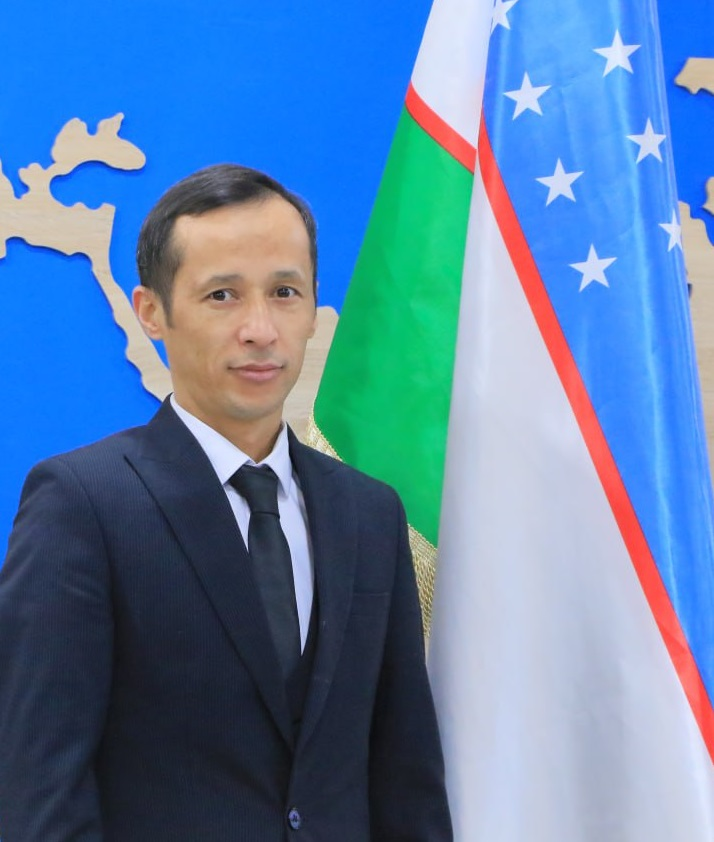
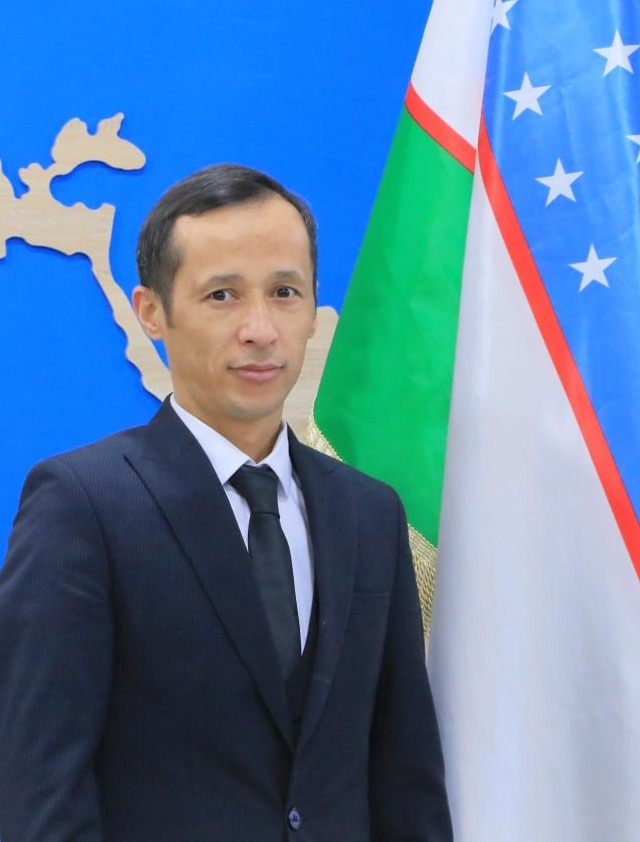
Meliqo'ziyev suratini kadr ichida markazlashtirish
Asl rasmda inson kadrning chap tomoniga siljigan va bayroq o'ng
tomonni band qilgan edi, shuning uchun 1-mualif kartasiga nisbatan
notekis/assimetrik ko'rinardi. Rasm o'ngdan biroz kesilib, inson
kadr markaziga yaqinlashtirildi, o'lchami esa Eshboltayev bilan
taqqoslanadigan darajada saqlab qolindi.

Claude-Session: https://claude.ai/code/session_01FEZMEYRP7XgMCTi3Q37Qdh

diff --git a/index.html b/index.html
@@ -71,7 +71,7 @@
 <section id="hemis" class="section"><div class="container"><div class="card" style="border-left:4px solid #1C4E9E"><div class="eyebrow">Rasmiy jarayonlar</div><h2>O‘quv topshiriqlarini bajarish hamda bilimlarni raqamli baholash — HEMIS platformasi orqali amalga oshiriladi</h2><p class="muted">ILIMZIYO ochiq elektron darslik va interaktiv o‘quv materiallari to‘plamidir. Talabalarning rasmiy topshiriq yuborishi, baholari, joriy/oraliq/yakuniy nazorat natijalari faqat universitetning HEMIS platformasida, belgilangan tartibda yuritiladi. Ushbu sayt hisob yaratmaydi va baho qo‘ymaydi.</p></div></div></section>
 <section id="muallif" class="section"><div class="container"><div class="grid grid-3">
 <div class="card author-card"><img class="author-photo" src="I.M.E.jpg" alt="I.M. Eshboltayev — muallif surati" width="270" height="278" loading="lazy"><div class="author-info"><div class="eyebrow">Muallif</div><h2>I.M. Eshboltayev</h2><p class="author-role">Fizika-matematika fanlari bo‘yicha falsafa doktori (PhD)</p><p class="muted">Qo‘qon davlat universiteti “Fizika va astronomiya” kafedrasi professori</p></div></div>
-<div class="card author-card"><img class="author-photo" src="D.J.M.jpg" alt="D.J. Meliqo‘ziyev — muallif surati" width="714" height="842" loading="lazy"><div class="author-info"><div class="eyebrow">Muallif</div><h2>D.J. Meliqo‘ziyev</h2><p class="author-role">Pedagogika fanlari bo‘yicha falsafa doktori (PhD)</p><p class="muted">Qo‘qon davlat universiteti Fizika va astronomiya kafedrasi</p></div></div>
+<div class="card author-card"><img class="author-photo" src="D.J.M.jpg" alt="D.J. Meliqo‘ziyev — muallif surati" width="640" height="842" loading="lazy"><div class="author-info"><div class="eyebrow">Muallif</div><h2>D.J. Meliqo‘ziyev</h2><p class="author-role">Pedagogika fanlari bo‘yicha falsafa doktori (PhD)</p><p class="muted">Qo‘qon davlat universiteti Fizika va astronomiya kafedrasi</p></div></div>
 <div class="card cert-card"><a href="https://im.adliya.uz/document/check/98096124-4ed9-449d-9d29-dbfa5f5e1f8d" target="_blank" rel="noopener"><img class="cert-doc" src="DGU-70647-guvohnoma.png" alt="№ DGU 70647 — «Fizika va astronomiya o‘qitishda axborot texnologiyalarini qo‘llash» dasturi uchun O‘zbekiston Respublikasi Adliya vazirligining rasmiy davlat guvohnomasi" width="526" height="701" loading="lazy"></a></div>
 </div></div></section>
 </main><footer class="footer"><div class="container">O‘zbekiston Respublikasining Dasturiy mahsulotlar davlat reyestrida 18.11.2026 y. ro‘yxatdan o‘tkazildi № DGU 70647</div><div class="container">Fizika va astronomiya o‘qitishda axborot texnologiyalari — Raqamli ta’lim laboratoriyasi · 2026 </div></footer><script src="app.js" defer></script><script src="js/translate.js"></script></body></html>
